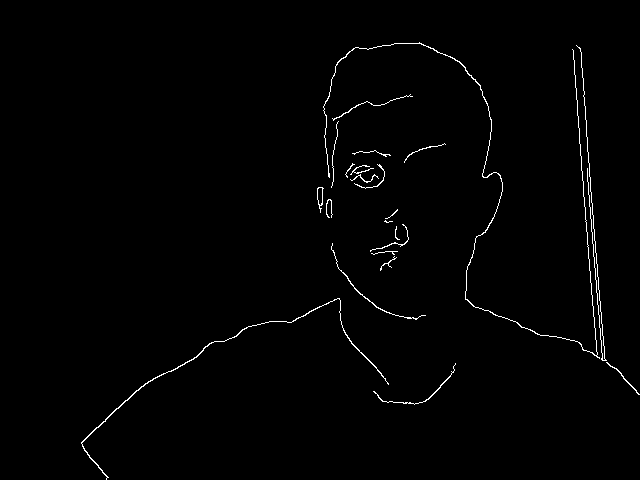
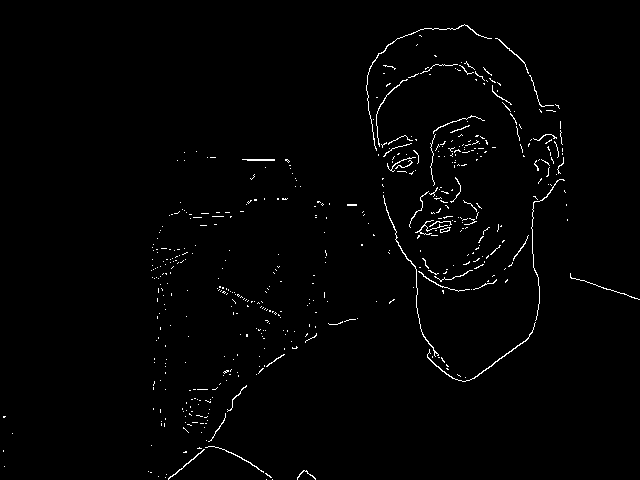
image pre-processing improvement

diff --git a/webcam.py b/webcam.py
@@ -1,7 +1,7 @@
 import cv2
 import keyboard
 import keras as kr
-
+from matplotlib import pyplot as plt
 # Get model onto server for use
 from keras.models import load_model
 import numpy as np
@@ -9,6 +9,7 @@ import PIL
 from PIL import Image 
 import webbrowser 
 
+fgbg = cv2.createBackgroundSubtractorMOG2(history=100, varThreshold=50, detectShadows=False)
 numberRecoq = load_model('savedModel/imageRecog.h5')
 
 # Thread issue fix
@@ -20,8 +21,8 @@ webcam = cv2.VideoCapture(cv2.CAP_DSHOW)
 running = True
 
 basewidth = 100
-firstThreshold = -10
-secondThreshold = -10
+firstThreshold = 50
+secondThreshold = 50
 startLeft = 80
 startTop = 80
 endRight = 300
@@ -37,17 +38,22 @@ print('Recording...')
 while (running):
     check, frame = webcam.read()
     gray = cv2.cvtColor(frame, cv2.COLOR_BGR2GRAY)
-    grayFiltered = cv2.bilateralFilter(gray, 7, 50, 50)
-    edges = cv2.rectangle(frame, (startLeft - 5, startTop - 5), (endRight + 5, endBottom + 5), color, thickness)
-    edgesFiltered = cv2.Canny(grayFiltered, firstThreshold, secondThreshold)
+    grayFiltered = cv2.bilateralFilter(gray, 7, 25, 25)
+    grayFilteredagain = cv2.GaussianBlur(grayFiltered, (3, 3), 0)
+    frame = cv2.rectangle(frame, (startLeft - 5, startTop - 5), (endRight + 5, endBottom + 5), color, thickness)
+    edgesFiltered = cv2.Canny(grayFilteredagain, firstThreshold, secondThreshold)
     
-    cv2.imshow("SignWriter", edges)
-    cv2.imshow("filtered", edgesFiltered)
+    fgmask = fgbg.apply(edgesFiltered)
+
+    #cv2.imshow('frame',fgmask)
+    cv2.imshow("SignWriter", frame)
+    
+    #cv2.imshow("filtered", edgesFiltered)
     key = cv2.waitKey(1)
 
     # Build a large set of images
     if(captureImages):
-        cv2.imwrite('temp/originalImage.png', edgesFiltered)
+        cv2.imwrite('temp/originalImage.png', fgmask)
         img = Image.open('temp/originalImage.png') 
         img = img.crop((startLeft, startTop, endRight, endBottom))
         f = open('dataset/data/imagedata.npy', 'a')
@@ -57,7 +63,7 @@ while (running):
 
         captureCounter = captureCounter + 1
         # Stop appending images
-        if(captureCounter==600):
+        if(captureCounter==300):
             captureImages = False
 
             # Reset
@@ -68,14 +74,11 @@ while (running):
     #analyse every x amount of frames
     frameCounter = frameCounter + 1
 
-    if(frameCounter %  55 == 0):
-        cv2.imwrite('temp/originalImage.png', edgesFiltered)
-
+    if(frameCounter %  30 == 0):
+        cv2.imwrite('temp/originalImage.png', fgmask)
         img = Image.open('temp/originalImage.png') 
         img = img.crop((startLeft, startTop, endRight, endBottom))
-
         data = np.asarray(img, dtype='uint8').reshape(1, 48400)
-
         inputVector = data.copy()
 
         # img = np.array(Image.open(filename))
@@ -91,7 +94,7 @@ while (running):
             f.write("Open Hand" + "\n")
         elif (prediction == 1):
             f.write("Peace Sign" + "\n")
-            #webbrowser.open('https://learnonline.gmit.ie/', new=2)
+            webbrowser.open('https://learnonline.gmit.ie/', new=2)
             #removed for testing
         elif(prediction == 2):
             f.write("A MIGHTY FIST" + "\n")
@@ -111,39 +114,28 @@ while (running):
         else:
             captureImages = True
 
+    #practice foreground
+    #https://docs.opencv.org/3.4/d8/d83/tutorial_py_grabcut.html
     if key == ord('p'):
-        cv2.imwrite('temp/originalImage.png', edgesFiltered)
-
+        cv2.imwrite('temp/originalImage.png', frame)
         img = Image.open('temp/originalImage.png') 
         img = img.crop((startLeft, startTop, endRight, endBottom))
-
-        data = np.asarray(img, dtype='uint8').reshape(1, 48400)
-
-        # data[data > 0] = 1
-        # data[data < 1] = 0
-
-        prediction = abstractPredic(data, numberRecoq)
-        f = open('predictions/checkPrediction.txt', 'a')
-
-        # Perfrom action here for gesture recognition
-        if(prediction == 0):
-            f.write("No Gesture" + "\n")
-        elif (prediction == 1):
-            f.write("Open" + "\n")
-            # webbrowser.open('https://www.google.com/', new=2)
-        elif(prediction == 2):
-            f.write("Peace Sign" + "\n")
-        else:
-            f.write("ERROR: You shouldn't see this")
-        f.close()
-
+        img.save('temp/croppedImage.png')    
+        ##have the image here
+        #imgTwo = cv2.imread('temp/croppedImage.png')
+        #mask = np.zeros(imgTwo.shape[:2],np.uint8) 
+        #bgdModel = np.zeros((1,65),np.float64)
+        #fgdModel = np.zeros((1,65),np.float64)
+        #rect = (0, 0, 200, 200)
+        #cv2.grabCut(imgTwo,mask,rect,bgdModel,fgdModel,2,cv2.GC_INIT_WITH_RECT)
+        #mask2 = np.where((mask==2)|(mask==0),0,1).astype('uint8')
+        #imgTwo = imgTwo*mask2[:,:,np.newaxis]
+        #plt.imshow(imgTwo),plt.colorbar(),plt.show()
     if key == ord('q'):
         print('Quitting program...')  
-
         running = False
-        break  
-
-    # Organising the edges detection
+        break
+    # Organising the edge detection manually
     if key == ord('y'):
         firstThreshold = firstThreshold + 20
         print ("first Threshold "+str(firstThreshold))
